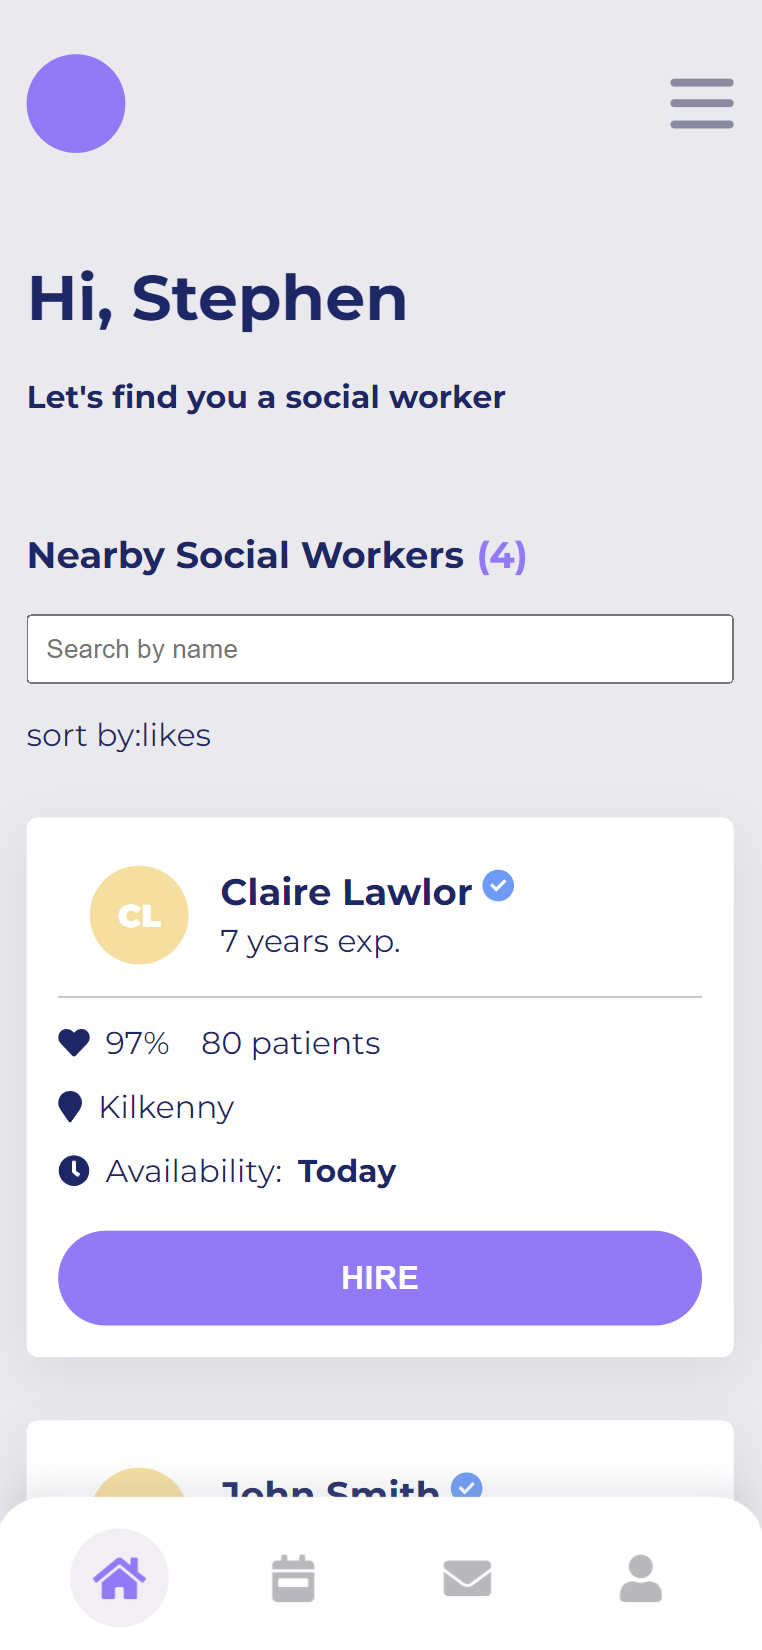
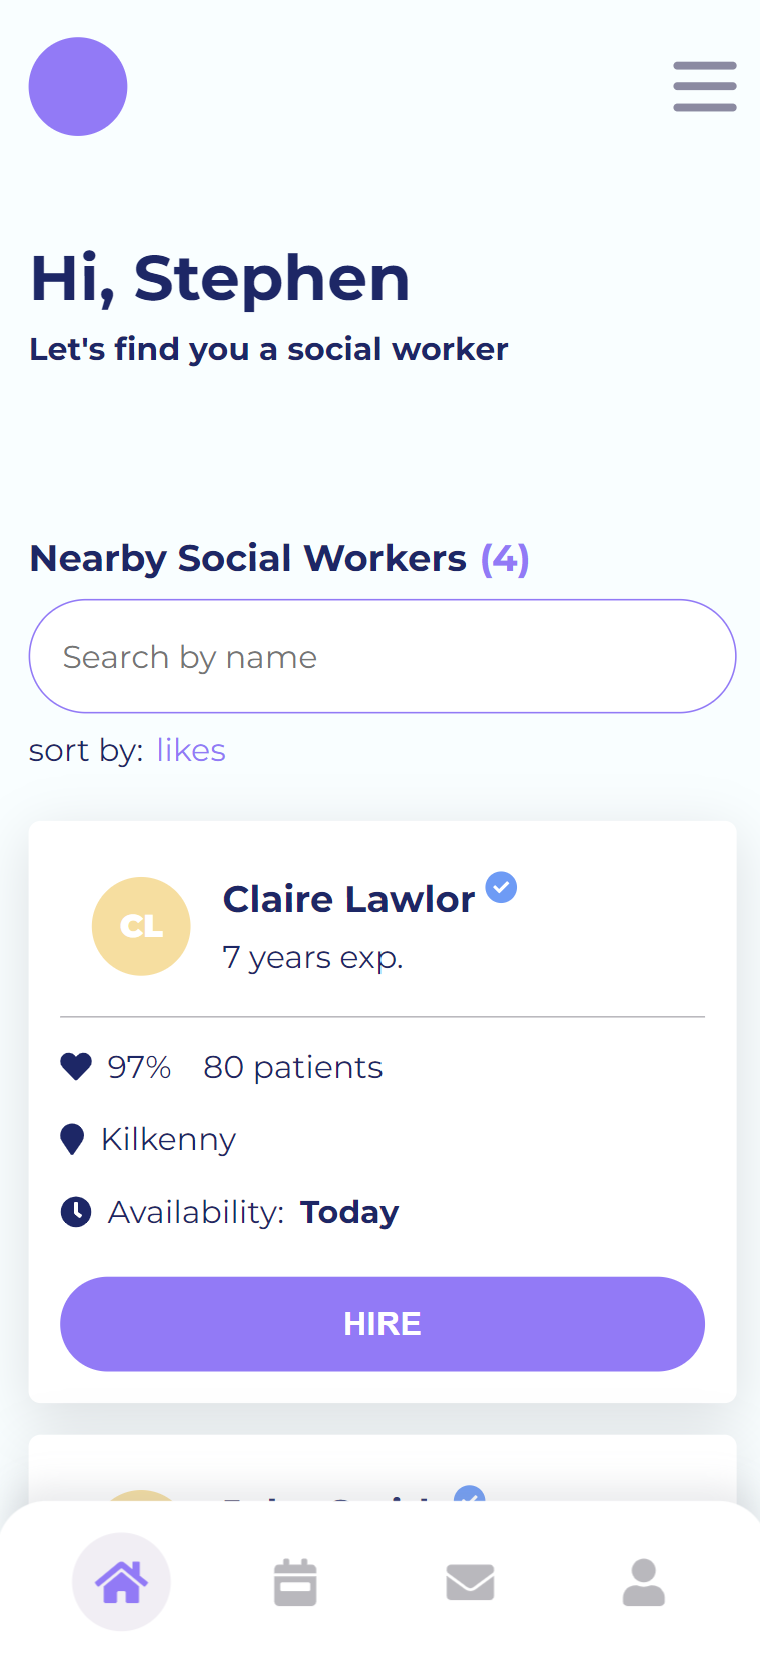
More margin on header and updated screenshot

diff --git a/pages/index.vue b/pages/index.vue
@@ -62,7 +62,7 @@ export default {
 
 <style lang="scss" scoped>
 header {
-  margin-bottom: 40px;
+  margin-bottom: 5rem;
 }
 h2.small {
   font-size: 1rem;
@@ -81,7 +81,7 @@ section.workers-search {
 
   input {
     background-color: $white;
-    border: 0;
+    border: 1px solid $primary-purple;
     border-radius: 50vh;
     color: $primary-font-color;
     margin: .4rem 0;
@@ -96,7 +96,7 @@ section.workers-search {
   }
 
   section.results {
-    margin-top: 1rem;
+    margin-top: .5rem;
   }
 }
 </style>
